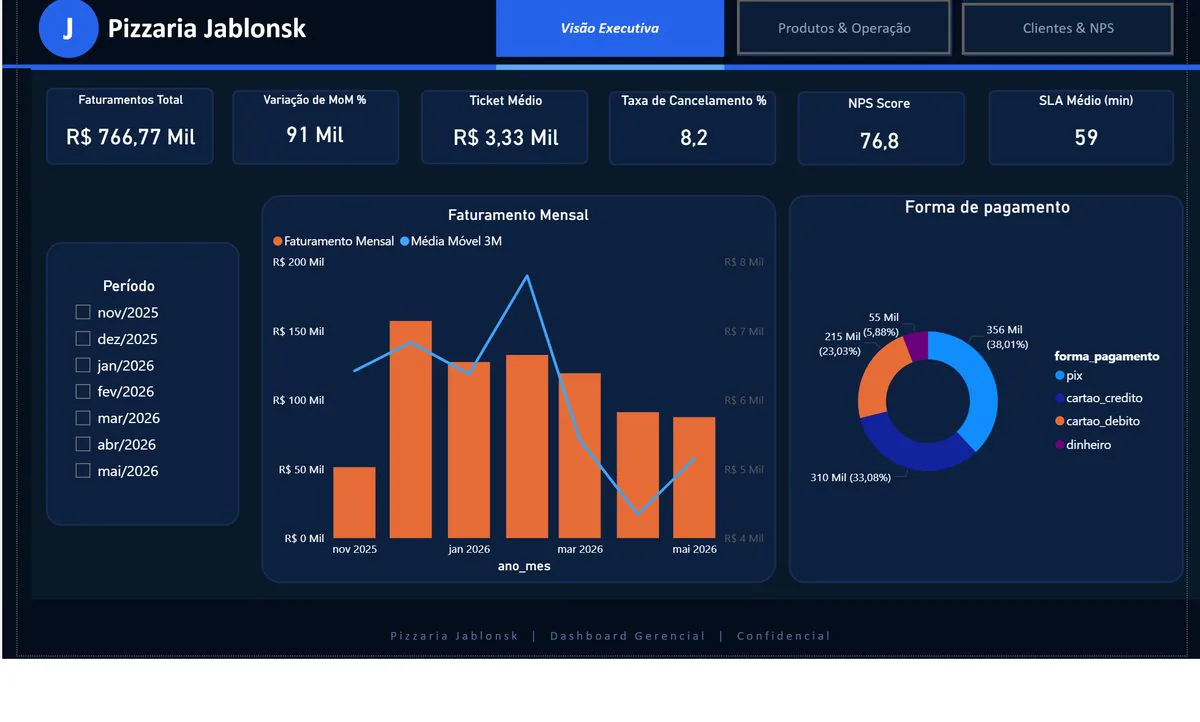
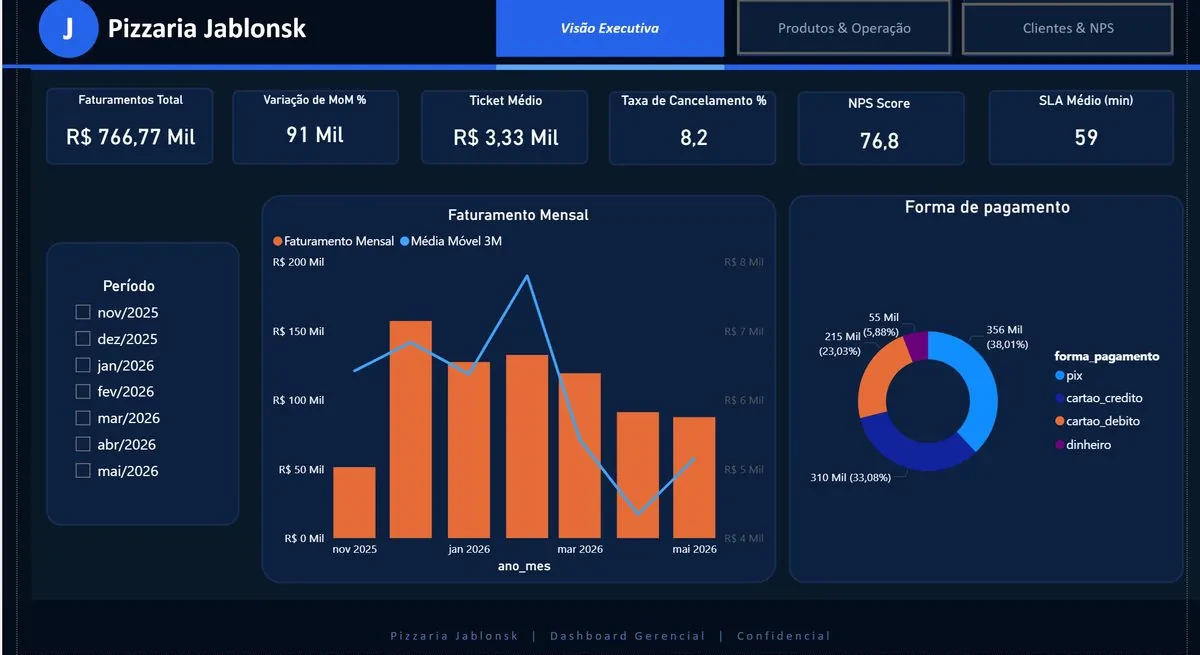
UX: wide HR card, cropped Pizzaria image, section labels, muted text contrast, footer date
- Odd last project card spans the full row (image left, text right)
- Removed white strip at the bottom of dashboard1.webp
- 'Sobre mim' and 'Contato' labels now match the other sections
- --text-muted raised to #7d8da3 (WCAG AA contrast on all backgrounds)
- Footer: updated in November 2026

Claude-Session: https://claude.ai/code/session_013HJ6znE3nTnkBGKHd28njf

diff --git a/index.html b/index.html
@@ -42,7 +42,7 @@
             --accent-2:      #6366f1;
             --text-primary:  #e2e8f0;
             --text-secondary:#94a3b8;
-            --text-muted:    #64748b;
+            --text-muted:    #7d8da3;
             --radius:        12px;
             --transition:    all 0.3s ease;
         }
@@ -994,6 +994,28 @@
             #hero { min-height: auto; }
         }
 
+
+        /* Rótulos de seção iguais em todas as seções (sobre/contato herdavam o estilo de <p>) */
+        .about-text .section-label, .contact-text > .section-label {
+            font-size: 0.75rem; font-weight: 700; letter-spacing: 3px;
+            text-transform: uppercase; color: var(--accent);
+            line-height: normal; margin-bottom: 0.6rem;
+        }
+
+        /* Card ímpar no fim da grade ocupa a largura toda, com imagem à esquerda e texto à direita */
+        @media (min-width: 901px) {
+            .projects-grid > .project-card:last-child:nth-child(odd) {
+                grid-column: 1 / -1;
+                display: grid;
+                grid-template-columns: minmax(0, 1.15fr) minmax(0, 1fr);
+                align-content: start;
+            }
+            .projects-grid > .project-card:last-child:nth-child(odd) > :not(.project-body) { grid-column: 1; }
+            .projects-grid > .project-card:last-child:nth-child(odd) > .project-body {
+                grid-column: 2; grid-row: 1 / span 5; border-left: 1px solid var(--border);
+            }
+        }
+
         @media (max-width: 900px) {
             .about-grid { grid-template-columns: 1fr; gap: 2.5rem; }
             .photo-frame { width: 260px; margin: 0 auto; }
@@ -1715,7 +1737,7 @@
         Desenvolvido com ♥ por
         <a href="https://github.com/natoawayrj" target="_blank">Renato Santos</a>
         &nbsp;·&nbsp; <span id="footerYear">2026</span>
-        <br><span class="footer-updated">Atualizado em outubro de 2026</span>
+        <br><span class="footer-updated">Atualizado em novembro de 2026</span>
     </p>
 </footer>
 
